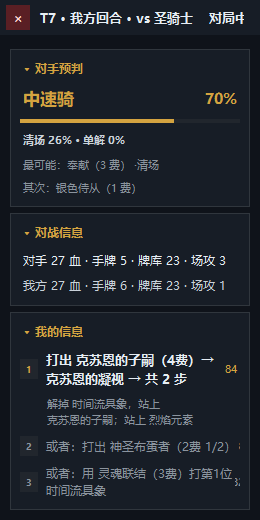
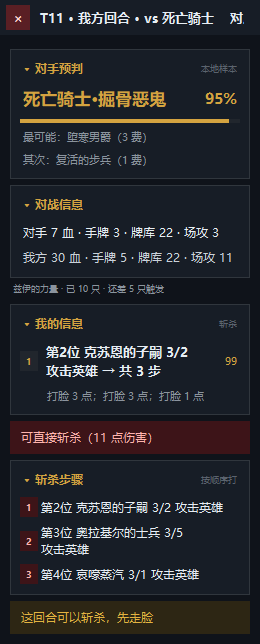
攻击判定修复；克苏恩按实例计数；AGENTS.md
攻击相关（这两条让建议长期缺攻击动作）：
- can_attack 用 effective_turn_owner（turn_owner 常为 None，导致谁都不能攻击）
- 不再信 EXHAUSTED（有些随从在手牌阶段就被置 1，进场后不再下发 0）
  改成「入场回合 + 本回合攻击过」判断，攻击机会按回合恢复
- 英雄自身攻击力（ATK 标签）也参与攻击，不再只看武器
- 对战信息场攻含英雄攻击力

克苏恩：
- 解析 SendChoices（m_chosenEntities），这是唯一能知道「选了哪个技能」的地方
- 触发源改按卡牌 id 判定：本体是 BE_013（克苏恩，帝国之眼），子嗣 BE_014
- 子嗣/法术触发永不计入强化，也不翻倍；只有本体四个技能各用一次才 ×3
- 每只克苏恩独立计数，新增 tests/test_cthun_progress.py
- 解析 Source=[...] 时补上方括号（parse_entity_ref 需要）

被动英雄技能计数：
- 只数「从手牌/牌库打出的随从」，召唤物不算（之前 11 只里混了 3 个衍生物）
- 计数与显示都改用 state.our_minions_played，不再留两套算法
- 面板显示「兹伊的力量 · 已 N 只 · 还差 M 只触发」，位置在对战信息与我的信息之间

文档：
- 新增 AGENTS.md（项目约定 + Karpathy 四条 + Ponytail + 8 条真踩过的坑）

diff --git a/hsai/state.py b/hsai/state.py
@@ -163,6 +163,8 @@ class GameState:
     # ------------------------------------------------------------ 生命周期
     def reset(self) -> None:
         # 局与局之间必须隔离：抽牌数、墓地、休眠/入场回合、克苏恩进度
+        self.cthun_by_source = {}
+        self._choice_source = {}
         self.entities: dict[int, Entity] = {}
         self.player_ids: dict[int, int] = {}  # player_id -> entity id
         self.player_entities: dict[int, Entity] = {}
@@ -204,9 +206,16 @@ class GameState:
         self.woke_turn: dict[int, int] = {}
         # 我方抽到的牌数（牌库→手牌），用来算牌库剩余：30 - 抽到
         self.our_drawn: int = 0
+        # 我方「从手牌打出」的随从数（被动技能按这个计数；召唤物不算）
+        self.our_minions_played: int = 0
+        self._counted_minions: set[int] = set()
         # 日志里每回合有「本回合抽了几张」的计数器，按增量累计更准
         self._draw_tag_last: int = 0
         # 实体 -> (死亡回合, 死亡顺序)；顺序按发生先后递增
+        self.attacked_this_turn: set[int] = set()
+        # 每只克苏恩各自用过哪些技能（key = 触发源实体 id）
+        self.cthun_by_source: dict[int, set[str]] = {}
+        self._choice_source: dict = {}
         self.grave_meta: dict[int, tuple[int, int]] = {}
         self._grave_seq: int = 0
         self._draw_tag_turn: int = 0
@@ -253,6 +262,9 @@ class GameState:
             # 有些日志片段没有 CREATE_GAME 头，也尽量解析
             self.game_started = True
             self.phase = "mulligan"
+        if kind == "choice_sent":
+            self._on_choice_sent(ev)
+            return
         if kind == "entity":
             self._on_entity(ev)
         elif kind == "full_entity":
@@ -425,6 +437,12 @@ class GameState:
             if val == ZONE_GRAVE and e.id not in self.grave_meta:
                 self._grave_seq += 1
                 self.grave_meta[e.id] = (self.turn, self._grave_seq)
+            if (val == ZONE_PLAY and prev_zone in (ZONE_HAND, ZONE_DECK)
+                    and e.controller == self.our_id and e.id not in self._counted_minions):
+                _c = self.cards.get(e.card_id) if (self.cards and e.card_id) else None
+                if _c is not None and _c.is_minion:
+                    self.our_minions_played += 1
+                    self._counted_minions.add(e.id)
             if e.controller == self.our_id:
                 # 进出牌库都要记：抽牌(-1)、换牌回库(+1)、塞进牌库(+1)、
                 # 从牌库被拉出/爆牌(-1)。这样 30 张 + 净变化 才是真实剩余。
@@ -454,6 +472,8 @@ class GameState:
                     won = val == 4
                 self._note("对局结束：" + ("胜利" if won else "失败" if val in (3, 4) else "平局"))
         elif tag == T_TURN and isinstance(val, int):
+            # 新回合：所有随从的攻击机会恢复
+            self.attacked_this_turn = set()
             # TURN 只在 GameEntity(1) 上是「总回合数」；玩家实体上也有这个 tag，
             # 含义不同（那个玩家的第几个回合），读错会把回合数搞乱。
             if eid == 1 and val != self.turn:
@@ -515,6 +535,11 @@ class GameState:
                     self._draw_tag_last = val_i
                 else:
                     self._draw_tag_last = val_i
+        elif tag == "EXHAUSTED" and eid:
+            if e.zone == ZONE_PLAY and _int(val) == 1:
+                self.attacked_this_turn.add(eid)
+            elif _int(val) == 0:
+                self.attacked_this_turn.discard(eid)
         elif tag == "DORMANT" and eid:
             if isinstance(val, int) and val == 0:
                 self.woke_turn[eid] = self.turn
@@ -745,6 +770,22 @@ class GameState:
             if e.controller == self.opp_id:
                 self._track_visibility(e)
 
+    def _on_choice_sent(self, ev: pl.Event) -> None:
+        """玩家提交的选择。克苏恩四技能只在这里能知道「到底选了哪个」。"""
+        src = self._choice_source or {}
+        src_card = str(src.get("card_id") or "")
+        src_id = src.get("id")
+        # 本体是「克苏恩，帝国之眼」(BE_013)，不是叫「克苏恩」的那张 8 费旧卡
+        if not src_id or src_card != "BE_013":
+            # 子嗣/法术触发的技能：任何时候都能四选一，也永远不翻倍
+            return
+        for ref in ev.data.get("refs") or []:
+            cid = ref.get("card_id") or ""
+            card = self.cards.get(cid) if (self.cards and cid) else None
+            name = card.name if card else ""
+            if name in self.CTHUN_SKILLS:
+                self.cthun_by_source.setdefault(int(src_id), set()).add(name)
+
     def _on_choices(self, ev: pl.Event) -> None:
         """发现/抉择/弃牌：记录待选选项。MULLIGAN 由留牌模块单独处理。"""
         d = ev.data
@@ -766,6 +807,9 @@ class GameState:
                     self._name_player[self._first_player_name] = 3 - pid
                     self.first_player = 3 - pid
                 self._bind_pending_names()
+
+        if d.get("source"):
+            self._choice_source = d["source"]
 
         ctype = d.get("choice_type")
         if ctype == "MULLIGAN":
@@ -1025,16 +1069,33 @@ class GameState:
 
     def note_cthun_choice(self, names) -> None:
         """从「选择并触发克苏恩技能」的选项里记录已经用过哪几个。"""
+        offered = set()
         for name in names or ():
             text = str(name or "")
             for skill in self.CTHUN_SKILLS:
                 if skill in text:
-                    self.cthun_used.add(skill)
+                    offered.add(skill)
+        # 同一个克苏恩的技能不能重复选，所以「没出现在选项里」= 已经用过。
+        # 之前把「选项里出现的」当成用过的，四个技能一出现就全记上了，
+        # 结果第一次触发就显示强化 ×3。
+        if len(offered) >= 2:
+            self.cthun_used = {s for s in self.CTHUN_SKILLS if s not in offered}
 
     def cthun_view(self) -> dict[str, Any]:
-        used = [s for s in self.CTHUN_SKILLS if s in self.cthun_used]
-        return {"used": used, "count": len(used), "total": 4,
-                "tripled": len(used) >= 4}
+        """强化看的是「哪一只克苏恩」，不同实例各自计数。"""
+        key = None
+        for e in self.entities.values():
+            if e.zone == ZONE_PLAY and e.controller == self.our_id:
+                card = self.cards.get(e.card_id) if (self.cards and e.card_id) else None
+                if card is not None and card.id == "BE_013":
+                    key = e.id
+                    break
+        if key is None:
+            key = self._choice_source.get("id")
+        used = sorted(self.cthun_by_source.get(key, set())) if key else []
+        ordered = [s for s in self.CTHUN_SKILLS if s in used]
+        return {"used": ordered, "count": len(ordered), "total": 4,
+                "tripled": len(ordered) >= 4}
 
     def _card_view(self, e: Entity) -> dict[str, Any]:
         card = self.cards.get(e.card_id) if (self.cards and e.card_id) else None
@@ -1085,7 +1146,8 @@ class GameState:
         """
         if e.zone != ZONE_PLAY or e.controller is None:
             return False
-        if self.turn_owner != e.controller:
+        # turn_owner 在日志里经常是 None，用推断出来的归属，否则谁都攻击不了
+        if self.effective_turn_owner() != e.controller:
             return False
         card = self.cards.get(e.card_id) if (self.cards and e.card_id) else None
         atk = e.atk if e.atk is not None else (card.atk if card else 0)
@@ -1094,7 +1156,12 @@ class GameState:
         # 客户端给了明确状态就以它为准（比拿 EXHAUSTED 推断准）
         if e.tags.get("ATTACKABLE") is not None:
             return bool(_int(e.tags.get("ATTACKABLE")) or 0)
-        if e.tags.get("EXHAUSTED") in (1, "1", True):
+        # 不能用 EXHAUSTED 直接判死：有些随从在手牌阶段就被打了 EXHAUSTED=1，
+        # 进场后客户端不再下发 0，会一直「不能攻击」。改成按「入场回合 + 本回合是否攻击过」。
+        played = self.played_turn.get(e.id)
+        if played is not None and played >= self.turn:
+            return False
+        if e.id in self.attacked_this_turn:
             return False
         if e.tags.get("FROZEN") in (1, "1", True):
             return False

diff --git a/hsai/policy.py b/hsai/policy.py
@@ -142,19 +142,21 @@ def legal_actions(board: Board, side: int, cards: CardDB) -> list[Action]:
 
     # 英雄拿武器也能攻击：打脸或打随从，同样受嘲讽限制
     weapon_atk = me.weapon.atk if (me.weapon is not None) else 0
-    if weapon_atk > 0 and me.weapon_attacks_left > 0:
+    # 英雄自带攻击力（被加攻/装备效果）也能攻击，不只有武器
+    hero_atk = max(weapon_atk, me.hero_atk)
+    if hero_atk > 0 and (me.weapon_attacks_left > 0 or me.hero_attacks_left > 0):
         if taunts:
             for j, t in enumerate(foe.board):
                 if t.alive and t.taunt and not t.dormant:
                     acts.append(Action("hero_attack", target=f"enemy:{j}",
-                                       desc=f"英雄（武器 {weapon_atk}攻）攻击第{j+1}位 {t.name}"))
+                                       desc=f"英雄（{hero_atk}攻）攻击第{j+1}位 {t.name}"))
         else:
             acts.append(Action("hero_attack", target="enemy_hero",
-                               desc=f"英雄（武器 {weapon_atk}攻）攻击英雄"))
+                               desc=f"英雄（{hero_atk}攻）攻击英雄"))
             for j, t in enumerate(foe.board):
                 if t.alive and not t.dormant:
                     acts.append(Action("hero_attack", target=f"enemy:{j}",
-                                       desc=f"英雄（武器 {weapon_atk}攻）攻击第{j+1}位 {t.name}"))
+                                       desc=f"英雄（{hero_atk}攻）攻击第{j+1}位 {t.name}"))
 
     # 帝国之眼在场：每回合可用两次技能，已用过的不能重复
     if me.cthun_uses_left > 0:
@@ -358,8 +360,8 @@ def apply_action(board: Board, side: int, action: Action, cards: CardDB) -> Boar
         return nb
 
     if action.kind == "hero_attack":
-        atk = me.weapon.atk if (me.weapon is not None) else 0
-        if atk <= 0 or me.weapon_attacks_left <= 0:
+        atk = max(me.weapon.atk if (me.weapon is not None) else 0, me.hero_atk)
+        if atk <= 0 or (me.weapon_attacks_left <= 0 and me.hero_attacks_left <= 0):
             return nb
         if action.target == "enemy_hero":
             nb.damage_hero(foe, atk)
@@ -371,7 +373,10 @@ def apply_action(board: Board, side: int, action: Action, cards: CardDB) -> Boar
             nb.damage_unit(foe, t, atk)
             nb.damage_hero(me, t.atk)        # 打随从要挨反伤
             nb.note(f"英雄用武器攻击 {t.name}")
-        me.weapon_attacks_left -= 1
+        if me.weapon_attacks_left > 0:
+            me.weapon_attacks_left -= 1
+        else:
+            me.hero_attacks_left -= 1
         # 「在你的英雄攻击后」这类武器效果：攻击后再结算
         if me.weapon is not None and me.weapon.card_id and cards is not None:
             wcard = cards.get(me.weapon.card_id)

diff --git a/tests/test_cthun_progress.py b/tests/test_cthun_progress.py
@@ -1,0 +1,52 @@
+"""克苏恩强化规则：只有本体触发才计数，且四个技能各用一次才算强化。"""
+
+from __future__ import annotations
+
+import unittest
+
+from hsai import cards, powerlog, state
+
+
+class CthunProgressTest(unittest.TestCase):
+    def setUp(self) -> None:
+        self.db = cards.load()
+        self.st = state.GameState(self.db)
+        self.st.our_id = 1
+
+    def _send(self, src_id: int, src_card: str, card_id: str) -> None:
+        self.st._choice_source = {"id": src_id, "card_id": src_card}
+        ev = powerlog.Event("choice_sent", {"refs": [{"card_id": card_id}]}, "")
+        self.st._on_choice_sent(ev)
+
+    def test_non_cthun_trigger_never_counts(self) -> None:
+        # 子嗣/法术触发：任何时候都能四选一，也不推进强化
+        self._send(55, "BE_014", "BE_013t1")
+        self.assertEqual(self.st.cthun_by_source.get(55), None)
+
+    def test_cthun_trigger_counts_per_instance(self) -> None:
+        self._send(77, "BE_013", "BE_013t1")
+        self.assertEqual(self.st.cthun_by_source[77], {"克苏恩的愤怒"})
+        # 另一只克苏恩独立计数
+        self._send(88, "BE_013", "BE_013t2")
+        self.assertEqual(self.st.cthun_by_source[88], {"克苏恩的领域"})
+        self.assertEqual(len(self.st.cthun_by_source[77]), 1)
+
+    def test_tripled_only_after_four_distinct(self) -> None:
+        for cid in ("BE_013t1", "BE_013t2", "BE_013t3"):
+            self._send(77, "BE_013", cid)
+        self.st._choice_source = {"id": 77, "card_id": "BE_013"}
+        self.assertFalse(self.st.cthun_view()["tripled"])
+        self._send(77, "BE_013", "BE_013t4")
+        self.st._choice_source = {"id": 77, "card_id": "BE_013"}
+        view = self.st.cthun_view()
+        self.assertEqual(view["count"], 4)
+        self.assertTrue(view["tripled"])
+
+    def test_reset_clears_progress(self) -> None:
+        self._send(77, "BE_013", "BE_013t1")
+        self.st.reset()
+        self.assertEqual(self.st.cthun_by_source, {})
+
+
+if __name__ == "__main__":
+    unittest.main()

diff --git a/hsai/advisor.py b/hsai/advisor.py
@@ -205,6 +205,15 @@ def board_from_state(st: GameState) -> Board:
     them.deck = _unknown_cards(opp.deck_count or max(0, 30 - opp.hand_count - len(them.board)))
     them.hand = _unknown_cards(opp.hand_count)
     hp_view = ours.hero_power or {}
+    _hero = st.hero(st.our_id) if hasattr(st, "hero") else None
+    if _hero is not None:
+        # 英雄自己也可能有攻击力（没武器但被加过攻），日志里 ATK 标签就是它
+        try:
+            me.hero_atk = int(_hero.tags.get("ATK") or 0)
+        except (TypeError, ValueError):
+            me.hero_atk = 0
+        me.hero_attacks_left = 1 if str(_hero.tags.get("EXHAUSTED", 0)) in ("0", "None") else 0
+
     if hp_view.get("id") and st.cards:
         me.hero_power = st.cards.get(hp_view["id"])
         me.hero_power_used = bool(hp_view.get("used"))
@@ -290,6 +299,12 @@ class Advisor:
             "feed": list(st.feed)[-10:],
             "choice": self._choice_view(st),
             "cthun": st.cthun_view(),
+            # 被动英雄技能的计数器（如「每使用五张随从牌」）
+            "passive": {"name": (ours.hero_power or {}).get("name") or "",
+                        "played": int(getattr(st, "our_minions_played", 0) or 0),
+                        "every": int((policy.passive_rule(
+                            self.cards.get((ours.hero_power or {}).get("id") or "")) or {}).get("every") or 0)},
+
             "unmodelled": list(getattr(st, "unmodelled", [])),
             "opp_played": [st._name(c) for c in list(st.revealed_opp_order)[-12:] if c],
         }

diff --git a/hsai/ui.py b/hsai/ui.py
@@ -1023,6 +1023,7 @@ class Overlay:
                          font=(FONT, self.font_size - 2), anchor="w", justify="left",
                          wraplength=self.width - 46).pack(fill="x", pady=(2, 0))
 
+
         cthun = snap.get("cthun") or {}
         if cthun.get("count"):
             mark = "（强化已解锁 ×3）" if cthun.get("tripled") else ""
@@ -1083,6 +1084,15 @@ class Overlay:
             tk.Label(inner_pick, text=self._ai_pick[1], bg=PANEL, fg=MUTED,
                      font=(FONT, self.font_size - 2), anchor="w", justify="left",
                      wraplength=self.width - 46).pack(fill="x")
+        passive = snap.get("passive") or {}
+        every = int(passive.get("every") or 0)
+        played = int(passive.get("played") or 0)
+        if every > 0:
+            left = every - (played % every)
+            tip = "下一只就触发" if left == 1 else f"还差 {left} 只触发"
+            tk.Label(self.body, text=f"{passive.get('name') or '被动'} · 已 {played} 只 · {tip}",
+                     bg=BG, fg=MUTED, font=(FONT, self.font_size - 3), anchor="w").pack(fill="x")
+
         self._render_advice(snap.get("advice") or {})
 
         defense = (snap.get("advice") or {}).get("defense") or []

diff --git a/hsai/powerlog.py b/hsai/powerlog.py
@@ -223,7 +223,11 @@ def parse_line(line: str, pending_entity: int | None = None) -> Event | None:
             ev.kind = "chosen"
         return ev
     if source == "GameState.SendChoices":
-        return _parse_ref_line(body, time)
+        # 玩家真正提交的选择（m_chosenEntities），这是唯一能知道「选了哪个」的地方
+        refs = _all_refs(body)
+        if not refs:
+            return _parse_ref_line(body, time)
+        return Event("choice_sent", {"refs": refs}, time)
     if source == "GameState.DebugPrintEntityChoices":
         ev = _parse_choices(body, time)
         refs = _all_refs(body)
@@ -383,6 +387,11 @@ def _parse_choices(body: str, time: str) -> Event:
         d["count"] = int(m.group(1))
     if m := re.search(r"CountMin=(\d+)\s+CountMax=(\d+)", body):
         d["min"], d["max"] = int(m.group(1)), int(m.group(2))
+    # 触发源：Source=[entityName=克苏恩 id=33 ...]（判断是哪只克苏恩/哪张牌触发）
+    if m := re.search(r"Source=\[([^\]]+)\]", body):
+        src = parse_entity_ref("[" + m.group(1) + "]")
+        if src:
+            d["source"] = src
     d["refs"] = _all_refs(body)
     return Event("choices", d, time)
 

diff --git a/hsai/model.py b/hsai/model.py
@@ -383,6 +383,8 @@ class SideState:
     hero_power: "Card | None" = None
     spells_cast: int = 0
     weapon_attacks_left: int = 0     # 英雄本回合还能用武器攻击几次
+    hero_atk: int = 0                # 英雄自身攻击力（没有武器也可能是 3，如被加攻）
+    hero_attacks_left: int = 0       # 英雄本回合还能攻击几次
     minions_played: int = 0          # 本局已打出的随从数（被动技能计数器用）
     passive_rule: dict = field(default_factory=dict)   # 被动技能的计数规则
     cthun_uses_left: int = 0         # 这回合帝国之眼还能用几次技能

diff --git a/AGENTS.md b/AGENTS.md
@@ -141,6 +141,9 @@ hsai/logutil.py    诊断日志写入（data/hsai.log，超 1 MB 自动截断）
 - **测试里 `include_ambient=False` 会整条绕开环境探测分支**。`remember_install_dir`
   只在 ambient 分支里调用，于是它漏了 `DATA_DIR` 导入也没人发现 —— 开着炉石启动
   就 NameError。给「只在一个分支里调用」的函数补用例，别只测默认路径。
+- **同一个数别留两套算法**。our_minions_played（只算手牌打出的）和
+  sum(our_played)（含召唤物）并存过：state 里换了新计数器，快照里却还用旧算法，
+  面板就一直显示错的值。改口径时先 grep 字段名，把读的地方一起换掉。
 - **判定「谁是我方」用可见手牌**（对手手牌没有 `card_id`），不要用 GameAccountId，
   练习模式下两边都有真账号，会判反。
 - **日志里没有「剩余牌库」字段**（`DECK_SIZE`/`CARD_COUNT` 都是 0 次）。
